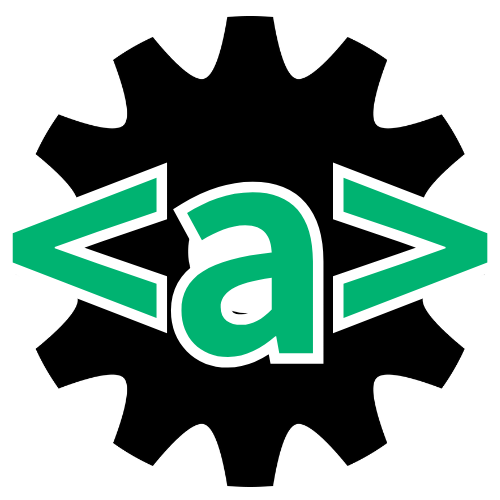
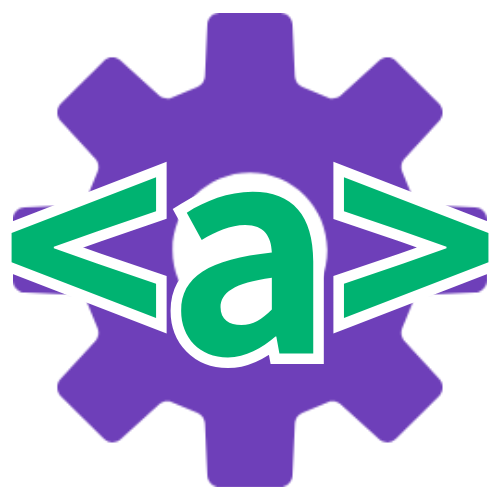
全機能実装完了。あとはスタイルのみ

diff --git a/popup.tsx b/popup.tsx
@@ -79,12 +79,35 @@ function IndexPopup() {
     }
   }
 
+  const removeBlank = async () => {
+    try {
+      // 現在のタブを取得
+      const [tab] = await chrome.tabs.query({ active: true, currentWindow: true })
+      // コンテンツスクリプトにメッセージを送信
+      await chrome.tabs.sendMessage(tab.id, {
+        name: "remove-a-blank",
+        body: "remove please"
+      })
+      console.log("A Style change requested")
+      // setAStyle(!aStyle)
+    } catch (error) {
+      console.error("Error sending message:", error)
+    }
+  }
+
+  
+
   return (
-    <div style={{ padding: 16, width: 300 }}>
+    <div
+      style={{
+        width: "340px",
+      }}
+    >
       <Header />
       <h1>aタグを目立たせる</h1>
       <button onClick={changeStyle}>送信</button>
-      <h1>すべてのaタグにtarget="_blank"を設定する</h1>
+
+      <h1>すべてのaタグにtarget="_blank"を付ける</h1>
       <label htmlFor="">rel=</label>
       <select name="" id="" onChange={(e) => setRel(e.target.value)}>
         <option value="">無し</option>
@@ -92,8 +115,11 @@ function IndexPopup() {
         <option value="noopener">noopener</option>
         <option value="noreferrer">noreferrer</option>
       </select>
-      <p>{rel}</p>
-      <button onClick={AddBlank}>設定</button>
+      <button onClick={AddBlank}>付与</button>
+
+      <h1>すべてのaタグからtarget="_blank"を外す</h1>
+      <button onClick={removeBlank}>外す</button>
+      
       <h1>リセットする</h1>
       <button onClick={resetStyle}>リセット</button>
     </div>

diff --git a/content.ts b/content.ts
@@ -59,6 +59,13 @@ const addBlank = (rel: string) => {
   alert("設定完了")
 }
 
+const removeBlank = () => {
+  const allATags = document.querySelectorAll("a")
+  allATags.forEach((t) => {
+    t.removeAttribute('target')
+  })
+}
+
 chrome.runtime.onMessage.addListener((msg, sender, sendResponse) => {
   if (msg.name === "change-a-style") {
     const css: Props = msg.body
@@ -67,6 +74,8 @@ chrome.runtime.onMessage.addListener((msg, sender, sendResponse) => {
   } else if (msg.name === "add-a-blank") {
     addBlank(msg.body)
     sendResponse({ status: "Atag's Style changed" })
+  } else if (msg.name === "remove-a-blank") {
+    removeBlank()
   } else if (msg.name === "reset-a-style") {
     window.location.reload()
   }

diff --git a/components/header.tsx b/components/header.tsx
@@ -4,9 +4,10 @@ import pwsImage from "data-base64:~assets/icon.png"
 // 背景色は
 // #00b371
 // #929191
+// rgb(110, 63, 185)
 
 export const Wrapper = styled.div`
-  background: #929191;
+  background: rgb(110, 63, 185);
   color: black;
 `
 
